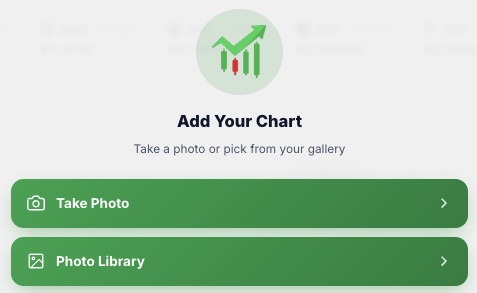
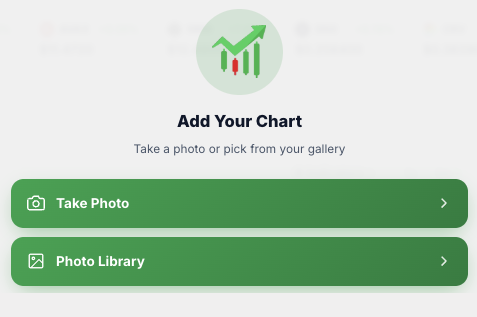
WhatsNewModal: fix stale image cache, clean up screenshot crop artifacts
Cache-bust suffix was a manually-bumped version string that needed
remembering to update every time a screenshot changed — easy to forget,
and a browser cache issue on top of it meant even bumping it wasn't
reliably showing the latest crop. Switched to Date.now(), so every page
load gets a genuinely unique image URL and a cache hit is impossible
regardless of whatever was causing it.

Also trimmed stray edge artifacts (a leftover divider line and a sliver
of page background) from the daily-brief and analyze-chart crops, and
added bottom padding so the analyze-chart buttons don't cut off flush
against the image edge.

Changed region(s): [[0.0, 0.5529, 0.9979, 1.0], [0.2642, 0.3379, 0.7338, 0.5222], [0.4109, 0.0614, 0.587, 0.3379]]

diff --git a/src/components/WhatsNewModal.tsx b/src/components/WhatsNewModal.tsx
@@ -17,7 +17,7 @@ interface Slide {
 // been overwritten in place multiple times while iterating on the crops,
 // and browsers cache images more aggressively than a page reload
 // reliably busts. Bump this whenever the files change again.
-const IMG_V = "4";
+const IMG_V = "5";
 
 const SLIDES: Slide[] = [
   {
